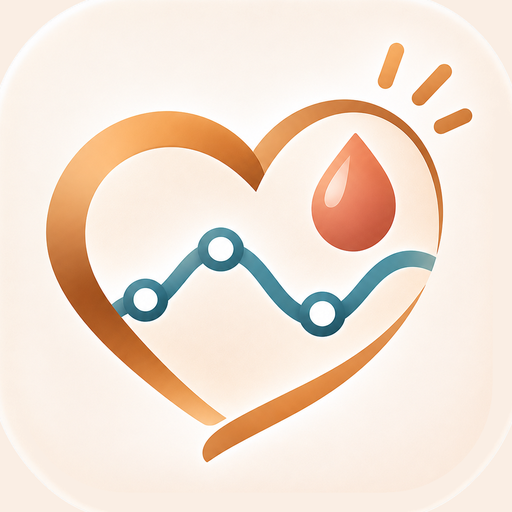
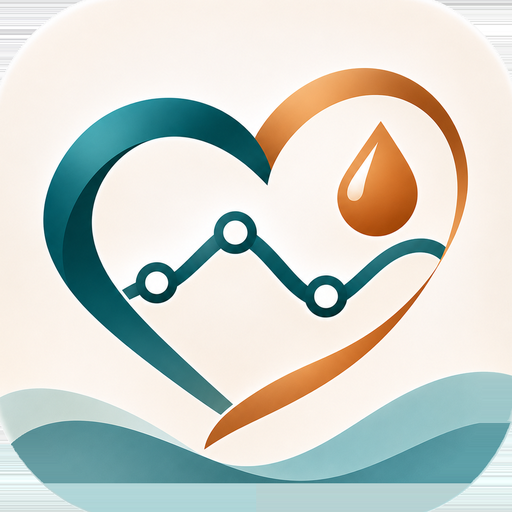
Jaunā ikona (tirkīzs un dzintars) un krāsu palete pēc tās; ierakstu krāsas nemainītas
Claude-Session: https://claude.ai/code/session_01ANb2HDVB3pMDUvKbaFFZim

diff --git a/app.css b/app.css
@@ -1,13 +1,13 @@
 /* Layout: one narrow column like a diary page — top bar, date, day totals, sensor curve, time-ruled log; dictation dock and tab bar pinned at the bottom.
-   Palette taken from the bear icon: cream paper, honey-brown, soft sky blue. */
+   Palette taken from the heart icon: cream paper, teal and amber heart, teal curve, amber drop; entry colors (meal green, insulin violet/blue) unchanged. */
 :root{
-  --paper:#FAF7F2; --sheet:#F0E6DC; --bar:#F7F0E8; --ink:#4E3B30; --muted:#79685C; --rule:#E3D5C6;
-  --bear:#a8642c; --bear-soft:#f6e6d3;
-  --blue:#2f6fc0; --blue-soft:#e4eefb;
+  --paper:#FBF6F0; --sheet:#F4EAE0; --bar:#F8EFE6; --ink:#4E3B30; --muted:#79685C; --rule:#E6D8CA;
+  --bear:#B85F26; --bear-soft:#FAE5D2;
+  --blue:#1C6670; --blue-soft:#DCEDEE;
   --basal:#7048b8; --basal-soft:#efe8fa;
   --bolus:#2f6fc0; --bolus-soft:#e4eefb;
   --meal:#2f7a4b; --meal-soft:#e3f2e8;
-  --sugar:#bf4d23; --sugar-soft:#fbe7dd;
+  --sugar:#C24E36; --sugar-soft:#FBE4DC;
   --gluc:#94680a; --gluc-soft:#faefd2;
   --danger:#b42318; --onaccent:#ffffff;
   --display:"Nunito", "Arial Rounded MT Bold", system-ui, sans-serif;
@@ -48,7 +48,7 @@ input,select,textarea{font-size:16px;font-weight:400;letter-spacing:0;background
 
 /* buttons */
 .btn{min-height:46px;border-radius:12px;border:1px solid var(--rule);background:var(--sheet);padding:0 16px;font-weight:700}
-.btn.primary{background:var(--bear);border-color:var(--bear);color:var(--onaccent)}
+.btn.primary{background:var(--blue);border-color:var(--blue);color:var(--onaccent)}
 .btn.small{min-height:38px;font-size:.88rem;color:var(--muted)}
 .btn.danger{color:var(--danger)}
 .btn:disabled{opacity:.55}
@@ -137,7 +137,7 @@ body.nodock .wrap{padding-bottom:calc(96px + var(--safe-b))}
 .chips.presets{display:grid;grid-template-columns:repeat(4,minmax(0,1fr));gap:6px}
 .chips.presets .pchip{padding-left:4px;padding-right:4px;font-size:.85rem;white-space:nowrap;text-align:center;min-width:0}
 .pchip{border:1px solid var(--rule);background:var(--sheet);border-radius:999px;padding:7px 13px;font-size:.88rem}
-.pchip[aria-pressed="true"]{background:var(--bear);color:var(--onaccent);border-color:var(--bear)}
+.pchip[aria-pressed="true"]{background:var(--blue);color:var(--onaccent);border-color:var(--blue)}
 .range{display:grid;grid-template-columns:minmax(0,1fr) minmax(0,1fr);gap:8px}
 .range label,.range input{min-width:0}
 input[type=date]{-webkit-appearance:none;appearance:none}
@@ -183,7 +183,7 @@ body.typing .dock{padding-bottom:8px}
 .tabbar{position:fixed;left:0;right:0;bottom:0;z-index:7;display:flex;background:var(--bar);border-top:1px solid var(--rule);
   padding:4px max(8px,env(safe-area-inset-right,0px)) calc(4px + var(--safe-b)) max(8px,env(safe-area-inset-left,0px))}
 .tabbar button{flex:1;border:0;background:none;display:flex;flex-direction:column;align-items:center;gap:2px;font-size:.74rem;font-weight:700;color:var(--muted);padding:6px 0;min-height:56px}
-.tabbar button[aria-current="page"]{color:var(--bear)}
+.tabbar button[aria-current="page"]{color:var(--blue)}
 
 /* sheets */
 .sheet-bg{position:fixed;inset:0;background:rgba(30,20,10,.45);display:flex;align-items:flex-end;justify-content:center;z-index:20}
@@ -209,16 +209,16 @@ body.locked{position:fixed;left:0;right:0;overflow:hidden}
   #printArea{display:block}
 }
 .pr{font-family:var(--body);color:#1b160f;font-size:10.5pt}
-.pr h1{font-family:var(--display);font-size:18pt;margin:0 0 2px;color:#8a4f1f}
+.pr h1{font-family:var(--display);font-size:18pt;margin:0 0 2px;color:#94481A}
 .pr .sub{color:#6b5d4f;margin-bottom:10px}
 .pr .pstats{display:grid;grid-template-columns:repeat(4,1fr);gap:6px;margin:8px 0 12px}
 .pr .pstats div{border:1px solid #e3d4bd;border-radius:6px;padding:6px}
 .pr .pstats b{display:block;font-size:13pt}
 .pr .pstats span{font-size:8pt;color:#6b5d4f}
 .pr .pdisc{font-size:8pt;color:#6b5d4f;margin-bottom:10px}
-.pr .pday{break-inside:avoid;page-break-inside:avoid;margin-bottom:14px;border-top:2px solid #a8642c;padding-top:5px}
+.pr .pday{break-inside:avoid;page-break-inside:avoid;margin-bottom:14px;border-top:2px solid #B35F27;padding-top:5px}
 .pr .pday h2{font-size:12.5pt;margin:0 0 5px}
-.pr .num{font-size:19pt;color:#a8642c;margin-right:6px}
+.pr .num{font-size:19pt;color:#B35F27;margin-right:6px}
 .pr table{width:100%;border-collapse:collapse;font-size:9.5pt}
 .pr th{font-size:7.5pt;text-transform:uppercase;color:#6b5d4f;text-align:left;border-bottom:1px solid #d9c8ae;padding:3px 4px}
 .pr td{padding:3px 4px;border-bottom:1px dotted #d9c8ae;vertical-align:top;text-align:left;white-space:normal}

diff --git a/index.html b/index.html
@@ -5,7 +5,7 @@
 <meta name="viewport" content="width=device-width, initial-scale=1, viewport-fit=cover">
 <title>Cukuriņa pieraksti</title>
 <meta name="description" content="Diabēta dienasgrāmata bērnam — insulīns, ēdienreizes, MV un glikoze.">
-<meta name="theme-color" content="#FAF7F2">
+<meta name="theme-color" content="#FBF6F0">
 <meta name="color-scheme" content="light">
 <meta name="apple-mobile-web-app-capable" content="yes">
 <meta name="mobile-web-app-capable" content="yes">
@@ -17,7 +17,7 @@
 <link rel="preconnect" href="https://fonts.googleapis.com">
 <link rel="preconnect" href="https://fonts.gstatic.com" crossorigin>
 <link rel="stylesheet" href="https://fonts.googleapis.com/css2?family=Atkinson+Hyperlegible:wght@400;700&family=Nunito:wght@700;800;900&display=swap">
-<link rel="stylesheet" href="app.css?v=23">
+<link rel="stylesheet" href="app.css?v=24">
 </head>
 <body>
 <div id="app">
@@ -25,7 +25,7 @@
   <!-- ===== sign in ===== -->
   <section id="scrAuth" class="screen center" hidden>
     <div class="authbox">
-      <img src="icons/icon-192.png?v=23" alt="" class="authlogo" width="96" height="96">
+      <img src="icons/icon-192.png?v=24" alt="" class="authlogo" width="96" height="96">
       <h1 class="brand">Cukuriņa pieraksti</h1>
       <p class="muted" id="authInviteNote" hidden>Tev ir ielūgums uz dienasgrāmatu. Pieslēdzies vai izveido kontu, un tas tiks pieņemts.</p>
       <div class="seg" role="tablist">
@@ -47,7 +47,7 @@
   <!-- ===== privacy consent (once per version) ===== -->
   <section id="scrConsent" class="screen center" hidden>
     <div class="authbox">
-      <img src="icons/icon-192.png?v=23" alt="" class="authlogo" width="96" height="96">
+      <img src="icons/icon-192.png?v=24" alt="" class="authlogo" width="96" height="96">
       <h1 class="brand">Privātums</h1>
       <p>Cukuriņa pieraksti glabā bērna veselības datus: insulīna devas, ēdienreizes, glikozes un ketonu mērījumus, piezīmes. Tos redz tikai tie, ko pats uzaicini.</p>
       <p><a href="privatums.html" target="_blank" rel="noopener">Izlasīt privātuma paziņojumu</a></p>
@@ -61,7 +61,7 @@
   <!-- ===== first run ===== -->
   <section id="scrOnboard" class="screen center" hidden>
     <div class="authbox">
-      <img src="icons/icon-192.png?v=23" alt="" class="authlogo" width="96" height="96">
+      <img src="icons/icon-192.png?v=24" alt="" class="authlogo" width="96" height="96">
       <h1 class="brand">Sāksim dienasgrāmatu</h1>
       <form id="obForm" class="form">
         <label>Bērna vārds<input id="obChild" required></label>
@@ -81,7 +81,7 @@
   <!-- ===== main app ===== -->
   <section id="scrMain" class="screen" hidden>
     <header class="topbar">
-      <img src="icons/icon-192.png?v=23" alt="" width="36" height="36" class="toplogo">
+      <img src="icons/icon-192.png?v=24" alt="" width="36" height="36" class="toplogo">
       <div class="toptitle"><b id="childName">Augusts</b><span id="roleLabel"></span></div>
       <select id="childSel" aria-label="Dienasgrāmata" hidden></select>
     </header>
@@ -235,7 +235,7 @@
 <div id="printArea" aria-hidden="true"></div>
 
 <script src="vendor/supabase-2.45.4.js"></script>
-<script src="config.js?v=23"></script>
-<script src="app.js?v=23"></script>
+<script src="config.js?v=24"></script>
+<script src="app.js?v=24"></script>
 </body>
 </html>

diff --git a/app.js b/app.js
@@ -363,7 +363,7 @@ function cgmSvg(c, marks, P){
   return g + `</svg>`;
 }
 const PAL_PAGE = { band:"var(--meal-soft)", grid:"var(--rule)", muted:"var(--muted)", line:"var(--blue)", low:"var(--danger)", finger:"var(--sugar)", bg:"var(--sheet)" };
-const PAL_PRINT = { band:"#e3f2e8", grid:"#e6d8c2", muted:"#6b5d4f", line:"#2f6fc0", low:"#b42318", finger:"#bf4d23", bg:"#ffffff" };
+const PAL_PRINT = { band:"#e3f2e8", grid:"#e6d8c2", muted:"#6b5d4f", line:"#1C6670", low:"#b42318", finger:"#C24E36", bg:"#ffffff" };
 function renderCgm(){
   const el = $("#cgmCard");
   if (!cgmDay || !cgmDay.v.length) { el.hidden = true; el.innerHTML = ""; return; }

diff --git a/sw.js b/sw.js
@@ -1,6 +1,6 @@
 // App shell cache. Data always comes live from the database; only the app files are cached.
-const CACHE = "cukurins-v23";
-const SHELL = ["./", "index.html", "app.css?v=23", "app.js?v=23", "config.js?v=23", "manifest.webmanifest",
+const CACHE = "cukurins-v24";
+const SHELL = ["./", "index.html", "app.css?v=24", "app.js?v=24", "config.js?v=24", "manifest.webmanifest",
   "vendor/supabase-2.45.4.js", "icons/icon-192.png", "icons/icon-512.png", "icons/apple-touch-icon.png", "icons/favicon-32.png"];
 
 self.addEventListener("install", e => {
